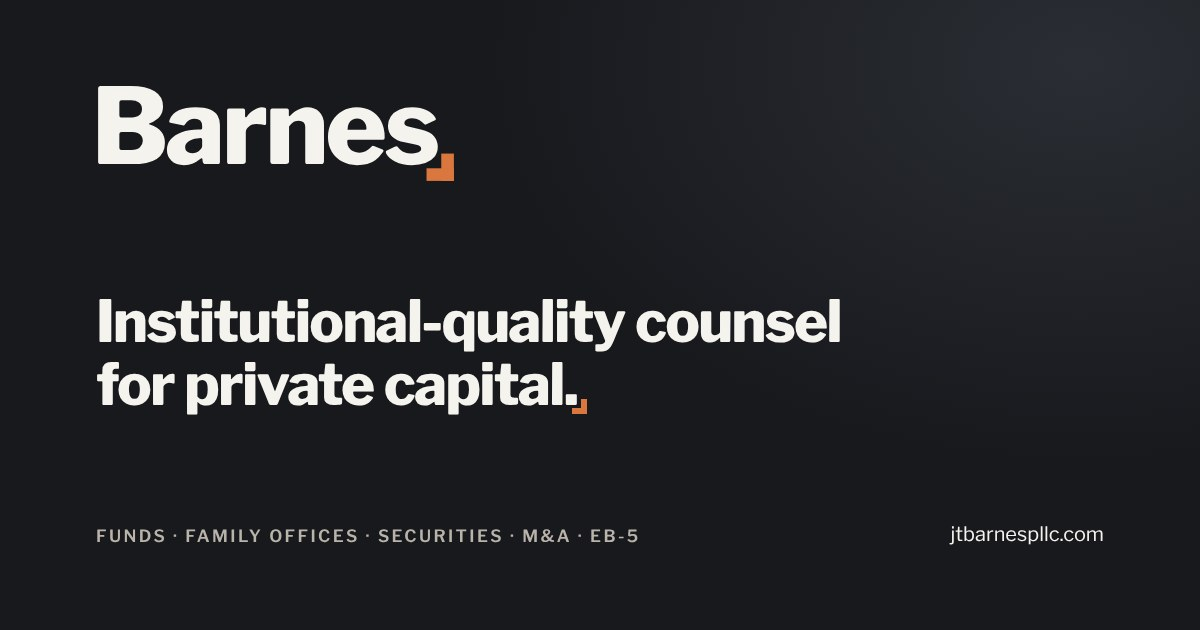
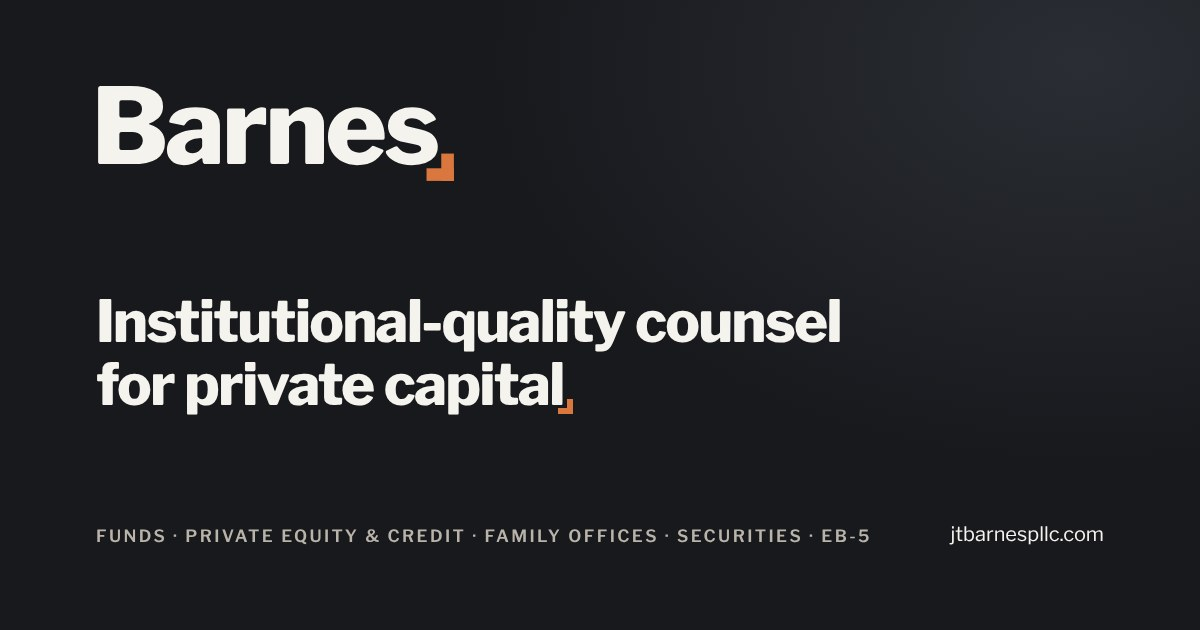
Closing corner replaces the final period in page headlines
- closing() drops a headline's final period so the corner ends the statement, as in the logo
- Share image: same treatment, and practice line adds Private Equity & Credit
- Share image URL versioned so LinkedIn and others pick up the new one
- Brand web tokens note the rule

Claude-Session: https://claude.ai/code/session_01KraDSKzJGmPHPeGWRjEy4w

Changed region(s): [[0.1542, 0.8143, 0.74, 0.8746], [0.4625, 0.6333, 0.4933, 0.6635]]

diff --git a/docs/index.html b/docs/index.html
@@ -14,7 +14,7 @@
 <meta property="og:title" content="J.T. Barnes & Associates | Corporate Finance &amp; Securities Counsel, Dallas">
 <meta property="og:description" content="J.T. Barnes &amp; Associates, PLLC: corporate finance, securities, fund formation, private equity, private credit, family office, EB-5, M&amp;A, and real estate capital counsel for families, funds, and middle-market businesses. Dallas, Texas.">
 <meta property="og:url" content="https://jtbarnespllc.com/">
-<meta property="og:image" content="https://jtbarnespllc.com/assets/img/og-image.jpg">
+<meta property="og:image" content="https://jtbarnespllc.com/assets/img/og-image.jpg?v=a10f19c4b7">
 <meta property="og:image:width" content="1200">
 <meta property="og:image:height" content="630">
 <meta name="twitter:card" content="summary_large_image">
@@ -56,7 +56,7 @@
   <div class="wrap">
     <div>
       <span class="eyebrow">J.T. Barnes & Associates, PLLC</span>
-      <h1>Corporate finance and securities counsel for <em>families, funds,</em> and the middle <span class="close-word">market.<span class="corner" aria-hidden="true"></span></span></h1>
+      <h1>Corporate finance and securities counsel for <em>families, funds,</em> and the middle <span class="close-word">market<span class="corner" aria-hidden="true"></span></span></h1>
       <p class="lede">Nearly 30 years structuring, documenting, and negotiating the transactions that connect capital providers with the businesses and sponsors raising it. Institutional-quality work, delivered directly by the attorney you hire.</p>
       <div class="hero-actions">
         <a class="btn btn-primary" href="/contact/">Schedule a consultation</a>

diff --git a/docs/practice/index.html b/docs/practice/index.html
@@ -14,7 +14,7 @@
 <meta property="og:title" content="Practice Areas | J.T. Barnes & Associates, PLLC">
 <meta property="og:description" content="Fund formation, private equity and private credit, securities offerings, family office advisory, EB-5 finance, M&amp;A and joint ventures, and real estate capital transactions.">
 <meta property="og:url" content="https://jtbarnespllc.com/practice/">
-<meta property="og:image" content="https://jtbarnespllc.com/assets/img/og-image.jpg">
+<meta property="og:image" content="https://jtbarnespllc.com/assets/img/og-image.jpg?v=a10f19c4b7">
 <meta property="og:image:width" content="1200">
 <meta property="og:image:height" content="630">
 <meta name="twitter:card" content="summary_large_image">
@@ -55,7 +55,7 @@
   <div class="wrap">
     <nav class="crumbs" aria-label="Breadcrumb"><a href="/">Home</a> &rsaquo; Practice</nav>
     <span class="eyebrow">Practice Areas</span>
-    <h1>Structuring, documenting, and negotiating capital <span class="close-word">transactions.<span class="corner" aria-hidden="true"></span></span></h1>
+    <h1>Structuring, documenting, and negotiating capital <span class="close-word">transactions<span class="corner" aria-hidden="true"></span></span></h1>
     <p class="lede">The practice links capital providers with those seeking capital, across borders both physical and figurative, for clients ranging from early-stage sponsors to multi-generational family offices.</p>
   </div>
 </section>

diff --git a/docs/lab/index.html b/docs/lab/index.html
@@ -14,7 +14,7 @@
 <meta property="og:title" content="The Lab: Practice Tools | J.T. Barnes & Associates, PLLC">
 <meta property="og:description" content="Practice tools built by a securities lawyer: the Legal Timekeeper, Legal Minder, Legal Prompt Coach, and an automated regulatory intelligence pipeline.">
 <meta property="og:url" content="https://jtbarnespllc.com/lab/">
-<meta property="og:image" content="https://jtbarnespllc.com/assets/img/og-image.jpg">
+<meta property="og:image" content="https://jtbarnespllc.com/assets/img/og-image.jpg?v=a10f19c4b7">
 <meta property="og:image:width" content="1200">
 <meta property="og:image:height" content="630">
 <meta name="twitter:card" content="summary_large_image">
@@ -55,7 +55,7 @@
   <div class="wrap">
     <nav class="crumbs" aria-label="Breadcrumb"><a href="/">Home</a> &rsaquo; The Lab</nav>
     <span class="lab-badge">The Lab</span>
-    <h1>Practice tools, built in the <span class="close-word"><em>open</em>.<span class="corner" aria-hidden="true"></span></span></h1>
+    <h1>Practice tools, built in the <span class="close-word"><em>open</em><span class="corner" aria-hidden="true"></span></span></h1>
     <p class="lede">Generic productivity software assumes linear workflows. Transactional practice does not work that way. These are the tools I built to run my own practice, shared for anyone who wants to work the same way.</p>
   </div>
 </section>

diff --git a/docs/insights/index.html b/docs/insights/index.html
@@ -14,7 +14,7 @@
 <meta property="og:title" content="Insights | J.T. Barnes & Associates, PLLC">
 <meta property="og:description" content="Insights from J.T. Barnes &amp; Associates on private funds, securities offerings, family offices, EB-5 finance, and practice in the AI era.">
 <meta property="og:url" content="https://jtbarnespllc.com/insights/">
-<meta property="og:image" content="https://jtbarnespllc.com/assets/img/og-image.jpg">
+<meta property="og:image" content="https://jtbarnespllc.com/assets/img/og-image.jpg?v=a10f19c4b7">
 <meta property="og:image:width" content="1200">
 <meta property="og:image:height" content="630">
 <meta name="twitter:card" content="summary_large_image">
@@ -55,7 +55,7 @@
   <div class="wrap">
     <nav class="crumbs" aria-label="Breadcrumb"><a href="/">Home</a> &rsaquo; Insights</nav>
     <span class="lab-badge">The Lab &middot; Insights</span>
-    <h1>Writing on <em>private capital</em> and <span class="close-word">practice.<span class="corner" aria-hidden="true"></span></span></h1>
+    <h1>Writing on <em>private capital</em> and <span class="close-word">practice<span class="corner" aria-hidden="true"></span></span></h1>
     <p class="lede">Analysis of private funds, securities offerings, family office trends, and the economics of professional work, written from an active transactional practice.</p>
   </div>
 </section>

diff --git a/docs/approach/index.html b/docs/approach/index.html
@@ -14,7 +14,7 @@
 <meta property="og:title" content="Approach | J.T. Barnes & Associates, PLLC">
 <meta property="og:description" content="How engagements with J.T. Barnes &amp; Associates work: confidential first conversation, written scope and fees, direct partner involvement, and technology-enabled delivery.">
 <meta property="og:url" content="https://jtbarnespllc.com/approach/">
-<meta property="og:image" content="https://jtbarnespllc.com/assets/img/og-image.jpg">
+<meta property="og:image" content="https://jtbarnespllc.com/assets/img/og-image.jpg?v=a10f19c4b7">
 <meta property="og:image:width" content="1200">
 <meta property="og:image:height" content="630">
 <meta name="twitter:card" content="summary_large_image">
@@ -55,7 +55,7 @@
   <div class="wrap">
     <nav class="crumbs" aria-label="Breadcrumb"><a href="/">Home</a> &rsaquo; Approach</nav>
     <span class="eyebrow">Approach</span>
-    <h1>How engagements <span class="close-word">work.<span class="corner" aria-hidden="true"></span></span></h1>
+    <h1>How engagements <span class="close-word">work<span class="corner" aria-hidden="true"></span></span></h1>
     <p class="lede">Sophisticated work should be easy to start, easy to understand, and easy to budget. Here is what working with the firm looks like.</p>
   </div>
 </section>

diff --git a/docs/contact/index.html b/docs/contact/index.html
@@ -14,7 +14,7 @@
 <meta property="og:title" content="Contact | J.T. Barnes & Associates, PLLC">
 <meta property="og:description" content="Contact J.T. Barnes &amp; Associates, PLLC in Dallas, Texas for corporate finance, securities, fund formation, private equity, private credit, EB-5, and M&amp;A counsel.">
 <meta property="og:url" content="https://jtbarnespllc.com/contact/">
-<meta property="og:image" content="https://jtbarnespllc.com/assets/img/og-image.jpg">
+<meta property="og:image" content="https://jtbarnespllc.com/assets/img/og-image.jpg?v=a10f19c4b7">
 <meta property="og:image:width" content="1200">
 <meta property="og:image:height" content="630">
 <meta name="twitter:card" content="summary_large_image">
@@ -55,7 +55,7 @@
   <div class="wrap">
     <nav class="crumbs" aria-label="Breadcrumb"><a href="/">Home</a> &rsaquo; Contact</nav>
     <span class="eyebrow">Contact</span>
-    <h1>Start a confidential <span class="close-word">conversation.<span class="corner" aria-hidden="true"></span></span></h1>
+    <h1>Start a confidential <span class="close-word">conversation<span class="corner" aria-hidden="true"></span></span></h1>
     <p class="lede">Tell us a little about your matter and how to reach you. Jason responds personally.</p>
   </div>
 </section>

diff --git a/docs/legal/index.html b/docs/legal/index.html
@@ -14,7 +14,7 @@
 <meta property="og:title" content="Legal Notices &amp; Disclaimer | J.T. Barnes & Associates, PLLC">
 <meta property="og:description" content="Attorney advertising notice, disclaimer, and terms for jtbarnespllc.com.">
 <meta property="og:url" content="https://jtbarnespllc.com/legal/">
-<meta property="og:image" content="https://jtbarnespllc.com/assets/img/og-image.jpg">
+<meta property="og:image" content="https://jtbarnespllc.com/assets/img/og-image.jpg?v=a10f19c4b7">
 <meta property="og:image:width" content="1200">
 <meta property="og:image:height" content="630">
 <meta name="twitter:card" content="summary_large_image">
@@ -55,7 +55,7 @@
   <div class="wrap">
     <nav class="crumbs" aria-label="Breadcrumb"><a href="/">Home</a> &rsaquo; Legal Notices</nav>
     <span class="eyebrow">Legal</span>
-    <h1>Legal notices and <span class="close-word">disclaimer.<span class="corner" aria-hidden="true"></span></span></h1>
+    <h1>Legal notices and <span class="close-word">disclaimer<span class="corner" aria-hidden="true"></span></span></h1>
     <p class="lede">Please read these notices before relying on anything on this website.</p>
   </div>
 </section>

diff --git a/docs/404.html b/docs/404.html
@@ -15,7 +15,7 @@
 <meta property="og:title" content="Page Not Found | J.T. Barnes & Associates, PLLC">
 <meta property="og:description" content="Page not found.">
 <meta property="og:url" content="https://jtbarnespllc.com/404.html">
-<meta property="og:image" content="https://jtbarnespllc.com/assets/img/og-image.jpg">
+<meta property="og:image" content="https://jtbarnespllc.com/assets/img/og-image.jpg?v=a10f19c4b7">
 <meta property="og:image:width" content="1200">
 <meta property="og:image:height" content="630">
 <meta name="twitter:card" content="summary_large_image">
@@ -56,7 +56,7 @@
   <div class="wrap">
     <nav class="crumbs" aria-label="Breadcrumb"><a href="/">Home</a> &rsaquo; Not found</nav>
     <span class="eyebrow">Page not found</span>
-    <h1>That page has moved or no longer <span class="close-word">exists.<span class="corner" aria-hidden="true"></span></span></h1>
+    <h1>That page has moved or no longer <span class="close-word">exists<span class="corner" aria-hidden="true"></span></span></h1>
     <p class="lede">If you followed a link from jasontbarnes.com, the content now lives on this site.</p>
   </div>
 </section>

diff --git a/docs/legal/privacy/index.html b/docs/legal/privacy/index.html
@@ -14,7 +14,7 @@
 <meta property="og:title" content="Privacy Policy | J.T. Barnes & Associates, PLLC">
 <meta property="og:description" content="Privacy policy for jtbarnespllc.com.">
 <meta property="og:url" content="https://jtbarnespllc.com/legal/privacy/">
-<meta property="og:image" content="https://jtbarnespllc.com/assets/img/og-image.jpg">
+<meta property="og:image" content="https://jtbarnespllc.com/assets/img/og-image.jpg?v=a10f19c4b7">
 <meta property="og:image:width" content="1200">
 <meta property="og:image:height" content="630">
 <meta name="twitter:card" content="summary_large_image">
@@ -55,7 +55,7 @@
   <div class="wrap">
     <nav class="crumbs" aria-label="Breadcrumb"><a href="/">Home</a> &rsaquo; <a href="/legal/">Legal</a> &rsaquo; Privacy</nav>
     <span class="eyebrow">Legal</span>
-    <h1>Privacy <span class="close-word">policy.<span class="corner" aria-hidden="true"></span></span></h1>
+    <h1>Privacy <span class="close-word">policy<span class="corner" aria-hidden="true"></span></span></h1>
     <p class="lede">What this website collects, and what it does not.</p>
   </div>
 </section>

diff --git a/docs/practice/fund-formation/index.html b/docs/practice/fund-formation/index.html
@@ -14,7 +14,7 @@
 <meta property="og:title" content="Fund Formation &amp; Alternative Investments | J.T. Barnes & Associates, PLLC">
 <meta property="og:description" content="Fund Formation &amp; Alternative Investments: Structuring and documenting private equity, private credit, real estate, and venture funds and co-investment vehicles for sponsors, managers, and the families and institutions that invest alongside them.">
 <meta property="og:url" content="https://jtbarnespllc.com/practice/fund-formation/">
-<meta property="og:image" content="https://jtbarnespllc.com/assets/img/og-image.jpg">
+<meta property="og:image" content="https://jtbarnespllc.com/assets/img/og-image.jpg?v=a10f19c4b7">
 <meta property="og:image:width" content="1200">
 <meta property="og:image:height" content="630">
 <meta name="twitter:card" content="summary_large_image">

diff --git a/docs/practice/private-equity-private-credit/index.html b/docs/practice/private-equity-private-credit/index.html
@@ -14,7 +14,7 @@
 <meta property="og:title" content="Private Equity &amp; Private Credit | J.T. Barnes & Associates, PLLC">
 <meta property="og:description" content="Private Equity &amp; Private Credit: Fund, deal, and financing counsel for middle-market private equity sponsors, private credit managers, and the family offices that invest alongside them.">
 <meta property="og:url" content="https://jtbarnespllc.com/practice/private-equity-private-credit/">
-<meta property="og:image" content="https://jtbarnespllc.com/assets/img/og-image.jpg">
+<meta property="og:image" content="https://jtbarnespllc.com/assets/img/og-image.jpg?v=a10f19c4b7">
 <meta property="og:image:width" content="1200">
 <meta property="og:image:height" content="630">
 <meta name="twitter:card" content="summary_large_image">

diff --git a/docs/practice/capital-markets/index.html b/docs/practice/capital-markets/index.html
@@ -14,7 +14,7 @@
 <meta property="og:title" content="Capital Markets &amp; Securities Offerings | J.T. Barnes & Associates, PLLC">
 <meta property="og:description" content="Capital Markets &amp; Securities Offerings: Private placements and exempt offerings, structured to raise capital efficiently and to stay on the right side of federal and state securities law.">
 <meta property="og:url" content="https://jtbarnespllc.com/practice/capital-markets/">
-<meta property="og:image" content="https://jtbarnespllc.com/assets/img/og-image.jpg">
+<meta property="og:image" content="https://jtbarnespllc.com/assets/img/og-image.jpg?v=a10f19c4b7">
 <meta property="og:image:width" content="1200">
 <meta property="og:image:height" content="630">
 <meta name="twitter:card" content="summary_large_image">
